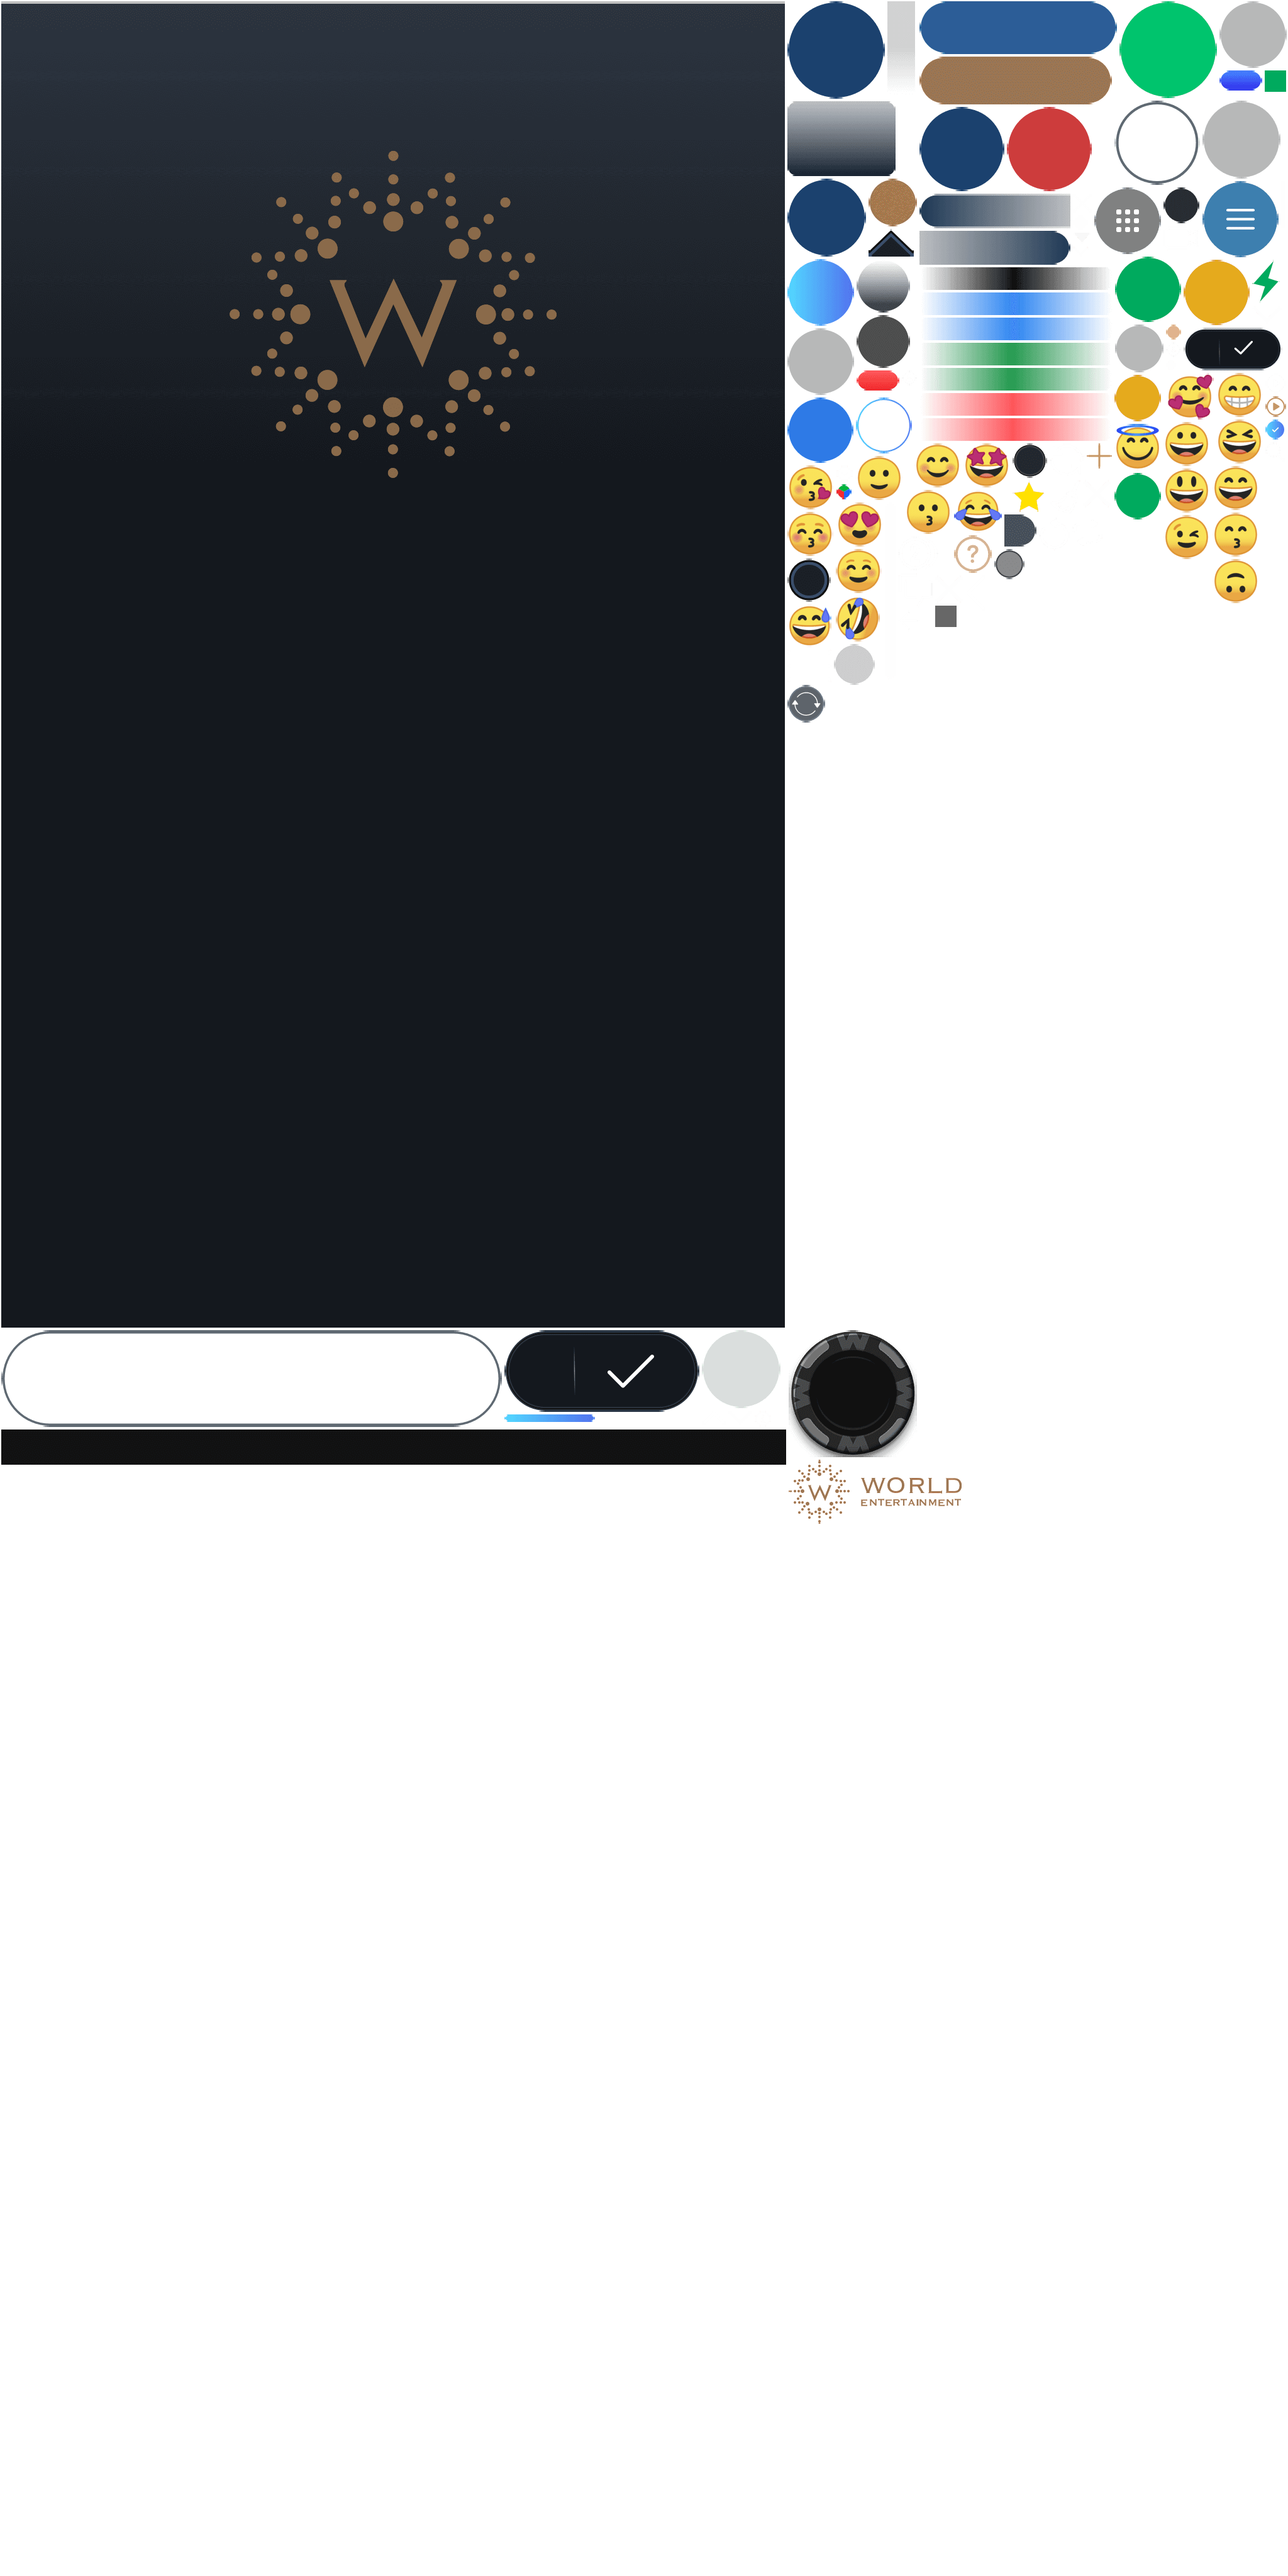
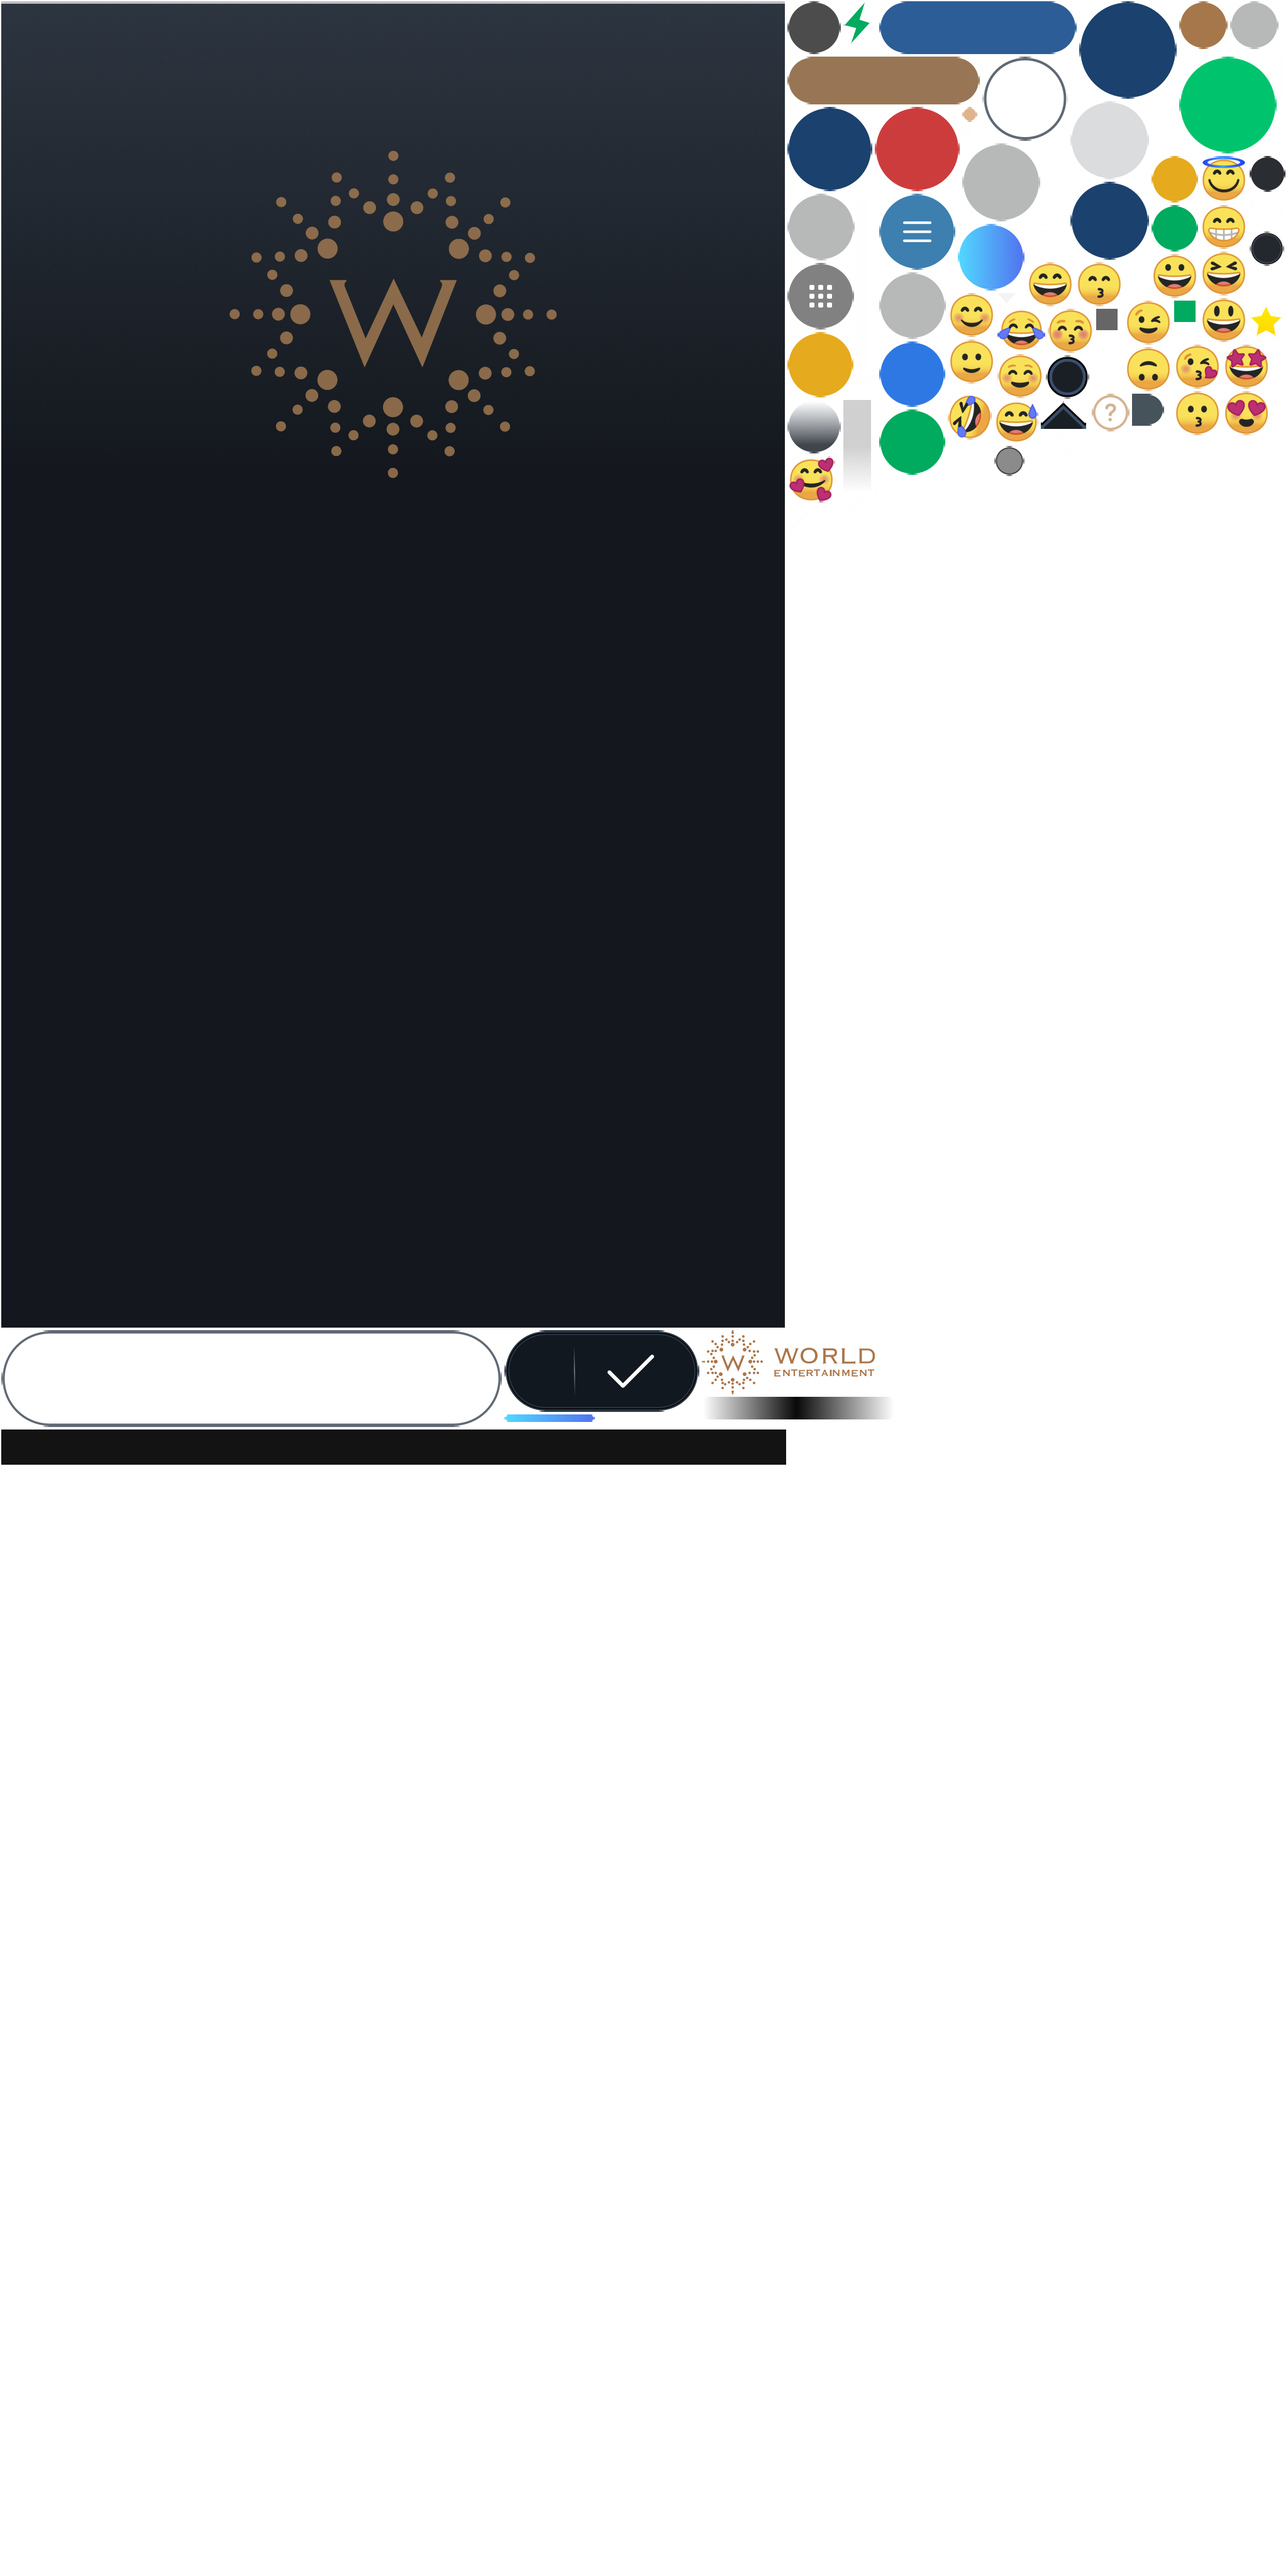
- updated mobile header submenu bg - added spritesheet generate procedure to readme

Changed region(s): [[0.5938, 0.0, 1.0, 0.2812], [0.5312, 0.5, 0.7188, 0.5938]]

diff --git a/README.md b/README.md
@@ -60,6 +60,17 @@ npm install -g tslint prettier typescript
 npm install -g tslint prettier typescript
 ```
 
+### SpriteSheet 
+Image assets are packed into spritesheet before load by the game client. To add, remove, or update images. Please follow the steps.
+1. raw image assets are stored at /resource_separate/assets, while /resource_separate/asset_old are the previous structure of the assets
+2. images can be added, removed, or updated in /resource_separate/assets
+3. open the corresponding Texture Merger project based on the modified images
+4. drag the new image to the texture merger project and save the project
+5. export the spritesheet to the corresponding folder in /resource_separate/assets_spritesheet
+6. use tinypng/ optimizilla to compress the exported Images
+7. drag the updated json and png to the corresponding folder in /resource/assets
+8. inside the desktop.res.json/ mobile.res.json, locate the spritesheet, right click and select "Refresh Sheet"
+
 ## Testing Site
 1. [Development](https://dev-web-game-fe.wehosts247.com/)
 
